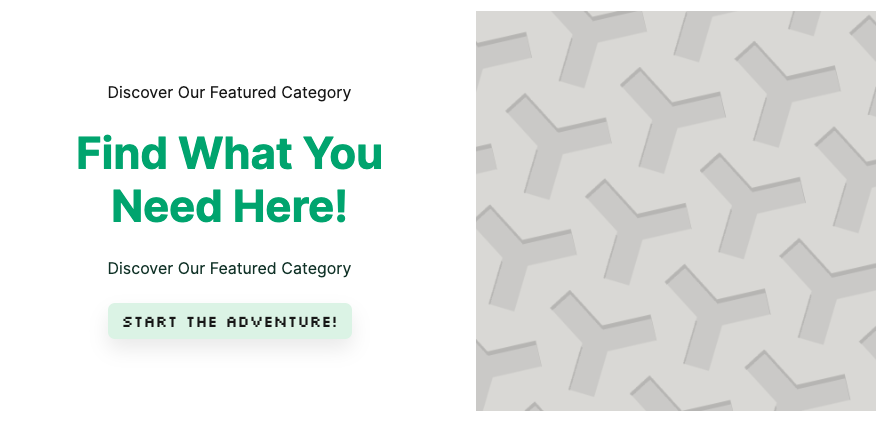
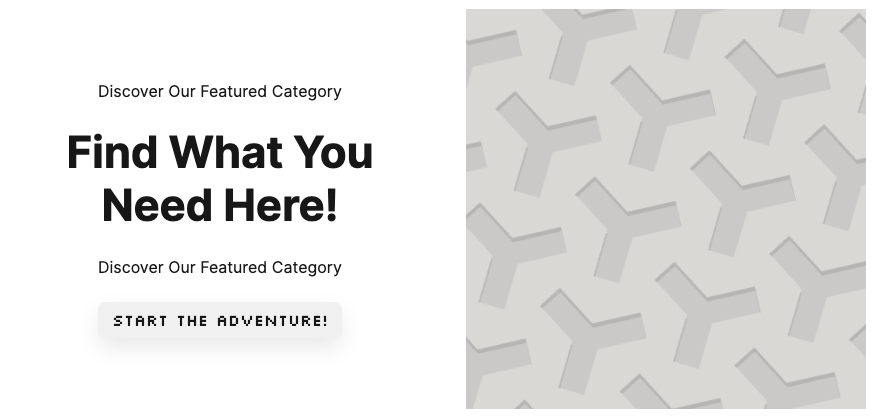
Deletes tint colors from molecules

diff --git a/packages/protolib/visualui/molecules/ProductColumns.tsx b/packages/protolib/visualui/molecules/ProductColumns.tsx
@@ -1,8 +1,8 @@
 import { Element } from "@protocraft/core";
 
 const ProductColumns = (atoms) => {
-    return <Element is={atoms.layout.Section} justifyContent="center" gap="$4" margin="$4">
-        <Element is={atoms.text.Text} color="$color8" fontSize="40px">
+    return <Element is={atoms.layout.VStack} alignItems="center" justifyContent="center" gap="$4" margin="$4">
+        <Element is={atoms.text.Text} fontSize="40px">
             Discover Our Featured Services
         </Element>
         <Element is={atoms.layout.HStack} gap="$6" flexWrap='wrap'>
@@ -14,7 +14,7 @@ const ProductColumns = (atoms) => {
                     url="/images/patterns/pattern-1.png"
                 >
                 </Element>
-                <Element is={atoms.text.Text} color="$color8" fontWeight="bold" padding="$0" alignSelf="flex-start">
+                <Element is={atoms.text.Text} fontWeight="bold" padding="$0" alignSelf="flex-start">
                     Custom Web Design
                 </Element>
                 <Element is={atoms.text.Text} >
@@ -32,7 +32,7 @@ const ProductColumns = (atoms) => {
                     url="/images/patterns/pattern-2.png"
                 >
                 </Element>
-                <Element is={atoms.text.Text} color="$color8" fontWeight="bold" padding="$0" alignSelf="flex-start">
+                <Element is={atoms.text.Text} fontWeight="bold" padding="$0" alignSelf="flex-start">
                     Custom Web Design
                 </Element>
                 <Element is={atoms.text.Text} >
@@ -50,7 +50,7 @@ const ProductColumns = (atoms) => {
                     url="/images/patterns/pattern-3.png"
                 >
                 </Element>
-                <Element is={atoms.text.Text} color="$color8" fontWeight="bold" padding="$0" alignSelf="flex-start">
+                <Element is={atoms.text.Text} fontWeight="bold" padding="$0" alignSelf="flex-start">
                     Custom Web Design
                 </Element>
                 <Element is={atoms.text.Text} >

diff --git a/packages/protolib/visualui/molecules/FeaturedCategory.tsx b/packages/protolib/visualui/molecules/FeaturedCategory.tsx
@@ -1,15 +1,15 @@
 import { Element } from "@protocraft/core";
 
 const FeaturedCategory = (atoms) => {
-    return <Element is={atoms.layout.Section} flexDirection="row" flexWrap="wrap-reverse" alignItems="center" justifyContent="center" gap="$8">
+    return <Element is={atoms.layout.HStack} flexDirection="row" flexWrap="wrap-reverse" alignItems="center" justifyContent="center" gap="$8">
         <Element is={atoms.layout.VStack} alignItems="center" gap="$4" width={400}>
             <Element is={atoms.text.Text}>
                 Discover Our Featured Category
             </Element>
-            <Element is={atoms.text.Head1} color="$color8" textAlign="center">
+            <Element is={atoms.text.Head1} textAlign="center">
                 Find What You Need Here!
             </Element>
-            <Element is={atoms.text.Text} color="$color11" textAlign="center">
+            <Element is={atoms.text.Text} textAlign="center">
                 Discover Our Featured Category
             </Element>
             <Element is={atoms.basic.ButtonSimple}>
